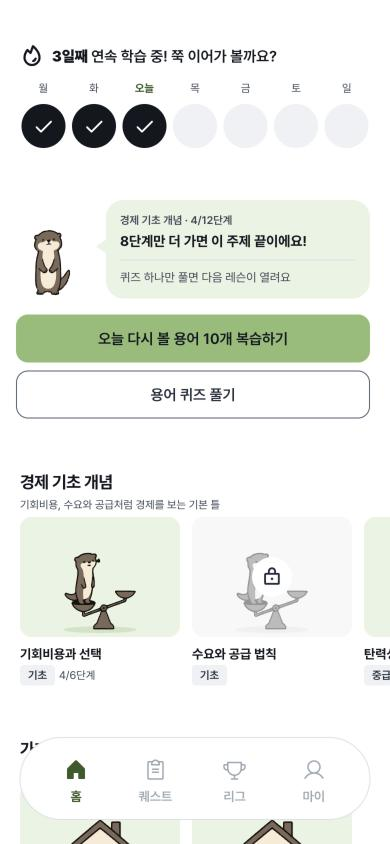
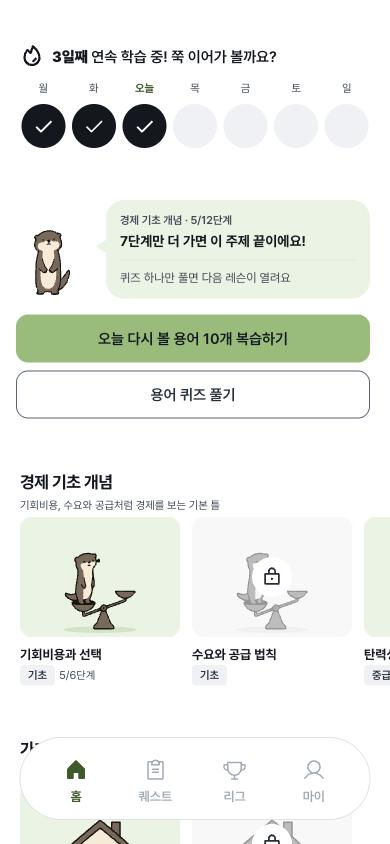
홈 주제 섹션 3개로, 같은 주제 안에서는 기초→심화 코스 순서대로만 열고 학습 중인 코스 다음은 모두 잠금, 마이 메뉴 아이콘 제거

diff --git a/src/pages/MyPageScreen.tsx b/src/pages/MyPageScreen.tsx
@@ -1,6 +1,6 @@
 import { useState } from 'react';
 import { StreakIcon, WordsIcon, XpIcon, STAT_COLOR } from '../components/StatIcons';
-import { ChevronRight, CircleHelp, Settings } from '../components/ui/OtterIcons';
+import { ChevronRight } from '../components/ui/OtterIcons';
 import { useAppContext } from '../context/AppContext';
 import { DEFAULT_NICKNAME, getGrowthStage } from '../constants';
 import { StageGlyph } from '../components/StageGlyph';
@@ -14,12 +14,8 @@ import { SettingsSheet } from '../components/mypage/SettingsSheet';
 import { NicknameSheet } from '../components/mypage/NicknameSheet';
 import { ProfileHeader } from '../components/mypage/ProfileHeader';
 import { Card } from '../components/ui/Card';
-import { IconBox } from '../components/ui/IconBox';
 
-const MENU_ITEMS = [
-  { icon: CircleHelp, label: '앱 사용법' },
-  { icon: Settings, label: '앱 설정' },
-];
+const MENU_ITEMS = ['앱 사용법', '앱 설정'];
 
 const MyPageScreen = () => {
   const { xp, leagueStage, knownWords, viewedIds, attendanceDates } = useAppContext();
@@ -99,18 +95,13 @@ const MyPageScreen = () => {
         {/* 메뉴 */}
         <div className="my-page-panel my-page-menu">
             <List>
-              {MENU_ITEMS.map(({ icon: Icon, label }) => (
+              {MENU_ITEMS.map(label => (
                 <ListRow
                   key={label}
                   as="button"
                   border="none"
                   className="w-full"
                   onClick={() => handleMenuClick(label)}
-                  left={
-                    <IconBox className="text-[var(--color-ink-2)]">
-                      <Icon size={20} strokeWidth={1.7} aria-hidden="true" />
-                    </IconBox>
-                  }
                   contents={<span className="text-sm font-semibold">{label}</span>}
                   right={<ChevronRight size={16} className="text-[var(--color-ink-4)]" />}
                 />

diff --git a/src/pages/CourseScreen.tsx b/src/pages/CourseScreen.tsx
@@ -106,11 +106,11 @@ const CourseScreen = () => {
     return () => { cancelled = true; };
   }, []);
 
-  // 필수 단계(학습·퀴즈)는 주제 안에서 순서대로만 연다(다음 코스 포함). 안 끝낸 첫 단계 뒤의 미완료 단계는 잠근다. 복습은 선택이라 잠그지 않는다
+  // 필수 단계(학습·퀴즈)는 같은 주제(카테고리) 안에서 기초→심화 코스 순서대로만 연다. 안 끝낸 첫 단계 뒤의 미완료 단계는 다음 난이도 코스까지 모두 잠근다. 복습은 선택이라 잠그지 않는다
   const sections = useMemo(() => {
     const opened = new Set<string>();
     return buildPath(courses, knownIds).map(sec => {
-      const key = `${sec.course.level}|${sec.course.category}`;
+      const key = sec.course.category;
       return { ...sec, nodes: sec.nodes.map(node => {
         if (node.type === 'review') return node;
         const done = node.state === 'done' || (doneNodes.has(node.id) && node.state === 'available');
@@ -388,8 +388,8 @@ const CourseScreen = () => {
           </ActionButton>}
         </section>
 
-        {/* 열린 주제를 주제명별로 묶고, 그 아래에 난이도별 코스를 가로 카드로 둔다 */}
-        {[...new Set(topics.filter(topic => !topic.locked).map(topic => topic.category))].slice(0, 6).map(category => (
+        {/* 열린 주제 3개를 주제명별로 묶고, 그 아래에 난이도별 코스를 가로 카드로 둔다 */}
+        {[...new Set(topics.filter(topic => !topic.locked).map(topic => topic.category))].slice(0, 3).map(category => (
           <section key={category} aria-label={category}>
             <div className="course-home-section-heading">
               <h2 className="type-section-title">{category}</h2>

diff --git a/src/pages/CourseScreen.test.tsx b/src/pages/CourseScreen.test.tsx
@@ -175,6 +175,15 @@ describe('필수 단계 순차 잠금', () => {
     ({ container } = await mount('/course?topic=0'));
     expect(container.querySelector('[data-node-id="c1-l3"]')).not.toBeDisabled();
   });
+
+  it('같은 주제의 다음 난이도 코스는 앞 코스를 끝낼 때까지 잠근다', async () => {
+    const basic = course({ id: 'c1', wordCount: 4 });
+    const mid = { ...course({ id: 'c2', wordCount: 4, startId: 101 }), level: '중급' };
+    baseContext({ courses: [basic, mid], knownIds: new Set() });
+    state.doneNodes = new Set();
+    const { container } = await mount('/course?topic=1&course=c2');
+    expect(container.querySelector('[data-node-id="c2-l0"]')).toBeDisabled();
+  });
 });
 
 describe('CourseScreen energy gates', () => {

diff --git a/DESIGN.md b/DESIGN.md
@@ -74,7 +74,7 @@
 
 **주제 썸네일(2026-11-04)**
 
-- 홈은 열린 주제 6개를 주제명 섹션으로 나누고(제목 + 한 줄 설명 `TOPIC_DESCRIPTIONS`), 그 아래에 난이도별 코스 카드(160x120 주제 그림 + 코스 이름 `COURSE_NAMES` + 난이도·단계/잠김)를 가로로 둔다. 맨 아래 "전체 주제 보기". 단어 카드 뉴스는 40px 정사각 그림(`TopicThumb`). 15개 주제는 달리 장면 일러스트(`public/topics/scenes/topic-<slug>.svg`, 240x180, 정사각으로 가운데를 잘라 씀), 장면이 없는 은행·금융제도, 핀테크·디지털·신산업 2개만 Unsplash 사진(`public/topics/SOURCES.md`).
+- 홈은 열린 주제 3개를 주제명 섹션으로 나누고(제목 + 한 줄 설명 `TOPIC_DESCRIPTIONS`), 그 아래에 난이도별 코스 카드(160x120 주제 그림 + 코스 이름 `COURSE_NAMES` + 난이도·단계/잠김)를 가로로 둔다. 맨 아래 "전체 주제 보기". 단어 카드 뉴스는 40px 정사각 그림(`TopicThumb`). 15개 주제는 달리 장면 일러스트(`public/topics/scenes/topic-<slug>.svg`, 240x180, 정사각으로 가운데를 잘라 씀), 장면이 없는 은행·금융제도, 핀테크·디지털·신산업 2개만 Unsplash 사진(`public/topics/SOURCES.md`).
 - 그림이 없는 주제는 회색 바탕에 주제 첫 글자를 둔다. 새 주제는 장면 일러스트로 추가한다(`docs/character/topics/`).
 - 카드는 그림자 없이 그림과 글자만 둔다. 기사 원문 사진은 언론사 저작물이라 쓰지 않는다.
 
